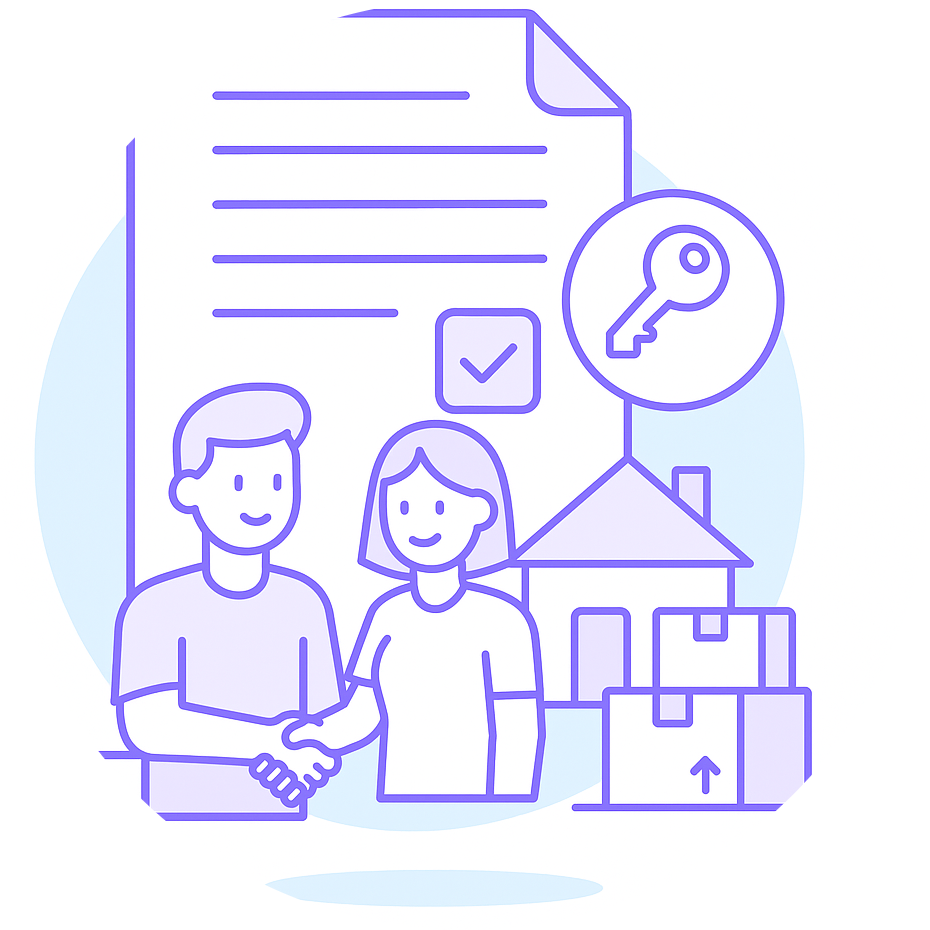
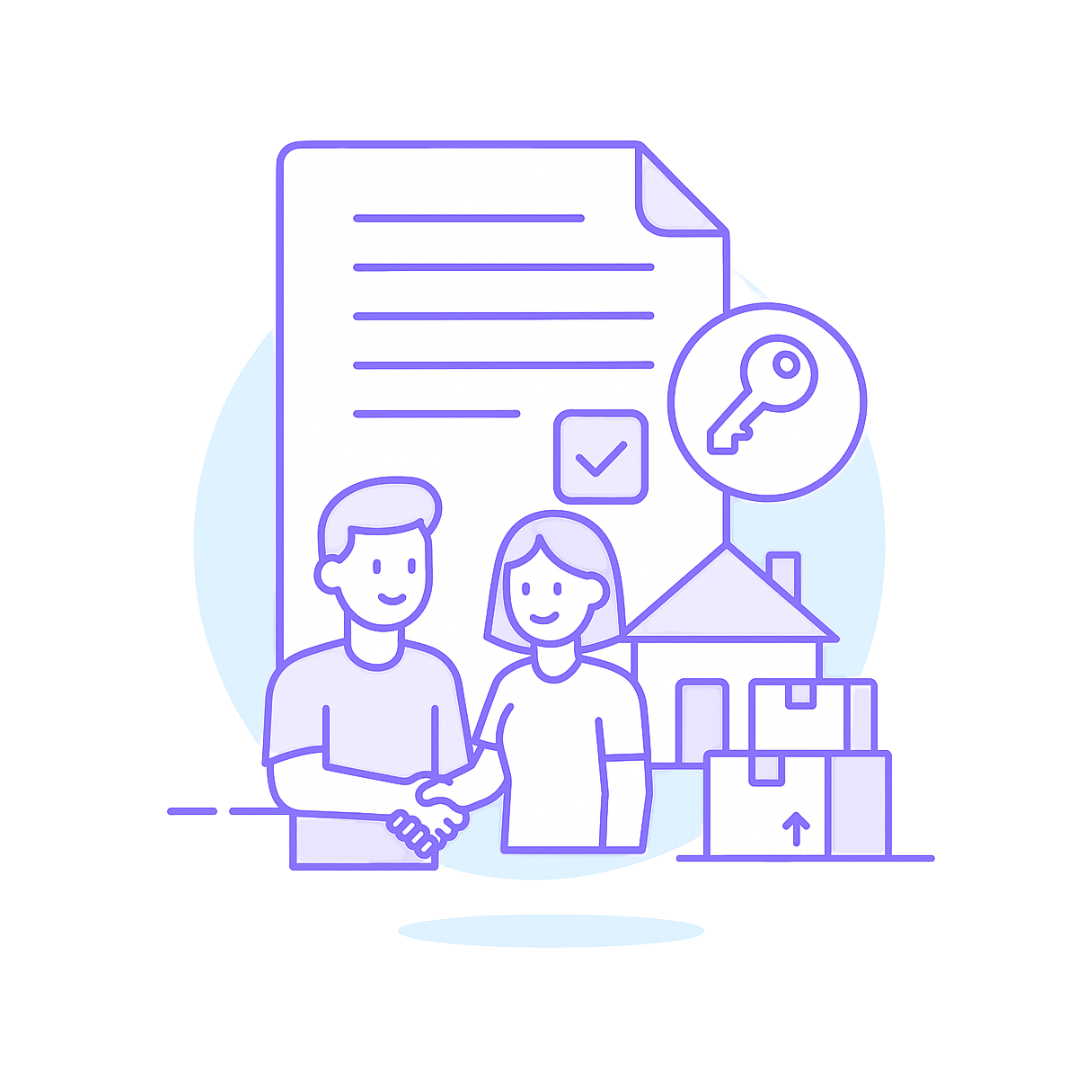
Voici les deux visuels pour mettre ici

Changed region(s): [[0.0312, 0.0, 0.8731, 0.9043], [0.2806, 0.9355, 0.6548, 0.9978]]

diff --git a/src/components/FooterComponent.vue b/src/components/FooterComponent.vue
@@ -15,6 +15,7 @@
                             <form @submit.prevent="handleSubmit">
                                 <div class="footer__newsletter__input__group">
                                     <div class="input">
+                                        <img src="@/assets/images/ekna/72.png" alt="Logo" class="logo" />
                                         <input v-model="email" type="email" name="news__letter" id="newsLetterMail"
                                             placeholder="Entrez votre email" required />
                                     </div>
@@ -146,5 +147,23 @@ const legalLinks = [
         flex: 0 0 auto;
         width: 18%;
     }
+}
+
+.input {
+    position: relative;
+    /* width: 100%; */
+}
+
+.input img.logo {
+    position: absolute;
+    top: 50%;
+    left: 20px;
+    transform: translateY(-50%);
+    width: 24px;
+    height: 24px;
+}
+
+.input input {
+    padding-left: 60px;  /* Adjusted for logo */
 }
 </style>

diff --git a/src/components/FilterComponent.vue b/src/components/FilterComponent.vue
@@ -25,7 +25,6 @@
                   {{ loc.label }}
                 </option>
               </select>
-
               <div
                 class="nice-select location__select"
                 :class="{ open: isOpen.location }"
